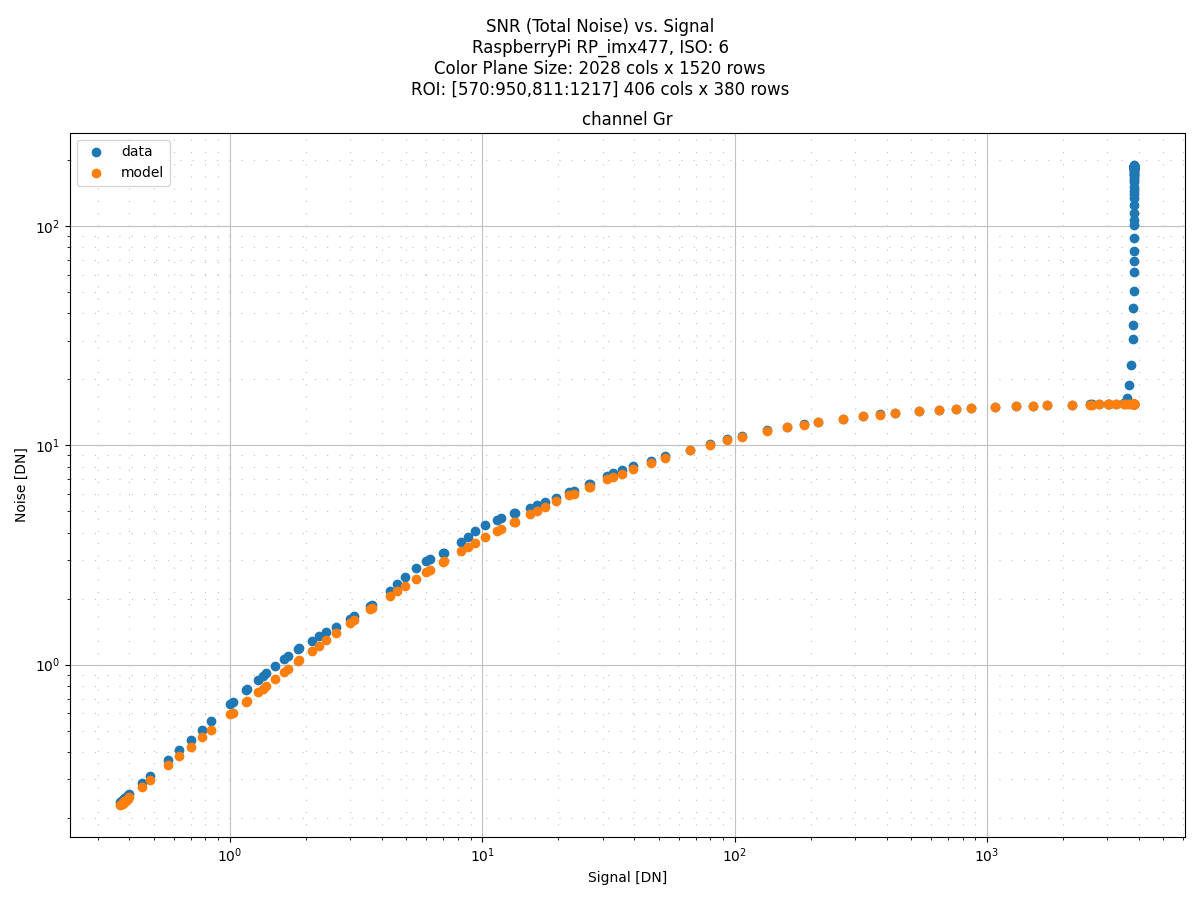
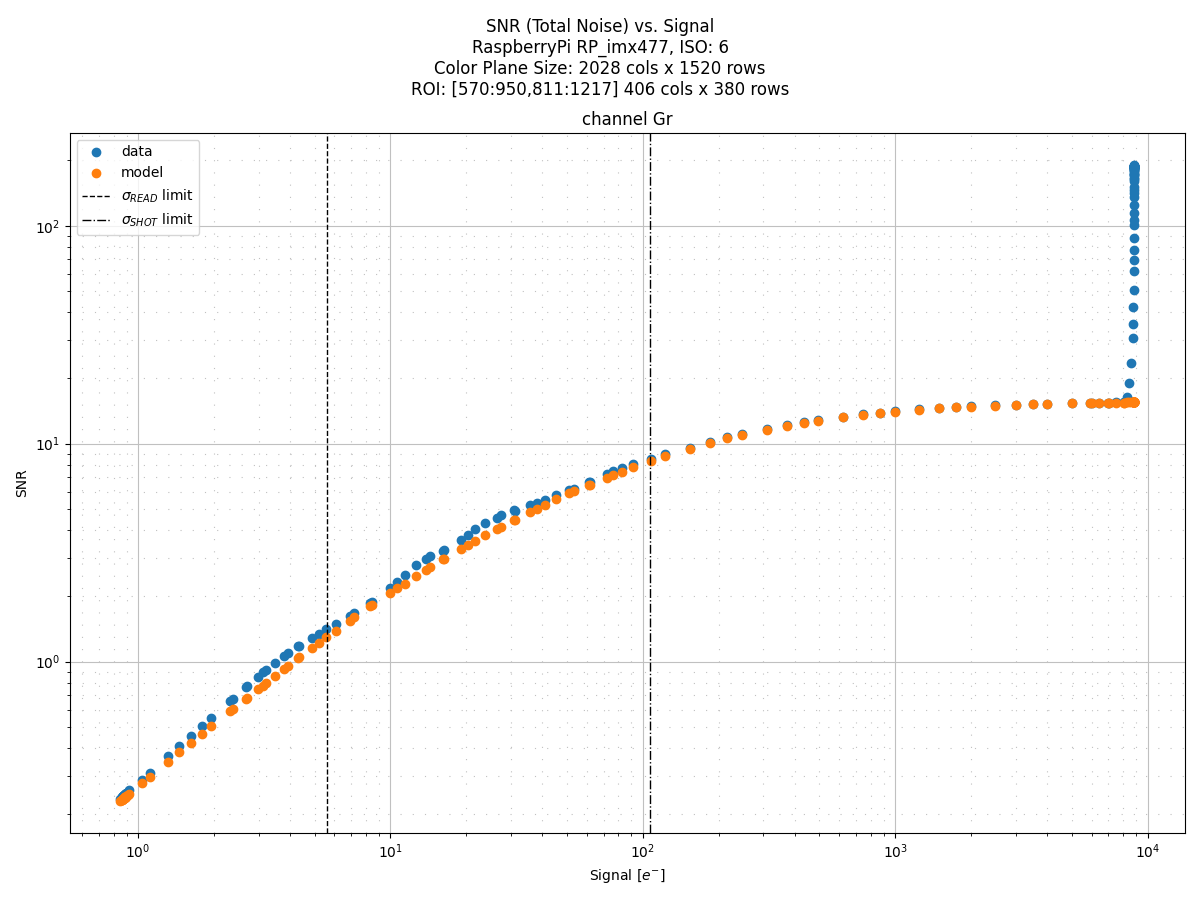
updating README

diff --git a/src/rawplot/ptc/snr_curves.py b/src/rawplot/ptc/snr_curves.py
@@ -95,7 +95,12 @@ def plot_noise_vs_signal(axes, i, x, y, xtitle, ytitle, ylabel, channels, **kwar
     # Additional data plots go here
     model = kwargs.get('model', None)
     if model is not None:
+        g =  kwargs['gain']
+        rd = kwargs['read']
+        p = kwargs['p_fpn']
         axes.plot(x[i], model[i], marker='o', linewidth=0,  label='model')
+        axes.axvline(g*rd**2, linestyle='--', linewidth=1, color='k', label=r'$\sigma_{READ}$ limit')
+        axes.axvline(1/(g*p**2), linestyle='-.', linewidth=1, color='k', label=r'$\sigma_{SHOT}$ limit')
         #plot_fitted_box(axes, fitted[i])
     # Titles, scales and grids
     axes.set_title(f'channel {channels[i]}')
@@ -157,5 +162,8 @@ def snr_curve1(args):
         model = model,
         phys = args.physical_units,
         log2 = args.log2,
+        gain = args.gain,
+        read = args.read_noise,
+        p_fpn = args.p_fpn,
     )
 

diff --git a/README.md b/README.md
@@ -238,10 +238,10 @@ rawplot-ptc --console curve1 -i images/20240117/linearity/ -f flat* -wi 1/5 -he 
 
 ### PTC Signal to Noise Curve
 
-Another way to display the camera performance is to directly display the Signal to Noise Ratio vs signal. If the `gain` ($g$) `read-noise` ($\sigma_{READ}$) and `p-fpn ` ($p_{FPN}$) parameters are given, a plot according model is also displayed, so that we can compare the actual SNR versus the expected SNR based on the model equation:.
+Another way to display the camera performance is to directly display the Signal to Noise Ratio vs signal. If the `gain` ($g$) `read-noise` ($\sigma_{READ}$) and `p-fpn ` ($p_{FPN}$) parameters are given, a plot according model is also displayed, so that we can compare the actual SNR versus the expected SNR based on the model equation:
 
 ```math
-SNR = \frac{S}{\sigma_{READ}^2 + (S/g) + p_{FPN}S}
+SNR = \frac{S}{\sqrt{\sigma_{READ}^2 + (S/g) + p_{FPN}S}}
 ```
 Where $S$, $\sigma_{READ}$ and $p_{FPN}$ are given in DN and $g$ in $e^{-}/DN$
 
@@ -250,3 +250,5 @@ rawplot-ptc --console curve6 -i images/20240117/linearity/ -f flat* -wi 1/5 -he 
 ```
 
 ![Raspberry Pi HQ Camera PTC SNR Curve plot](doc/images/ptc_snr_total.png)
+
+The vertical lines in the plot above shows where the $\sigma_{SHOT}$ noise begins to dominate over the $\sigma_{READ}$ noise and where the $\sigma_{FPN}$ noise begins to dominate over the $\sigma_{SHOT}$ noise in the theoretical model given by the model equation.
